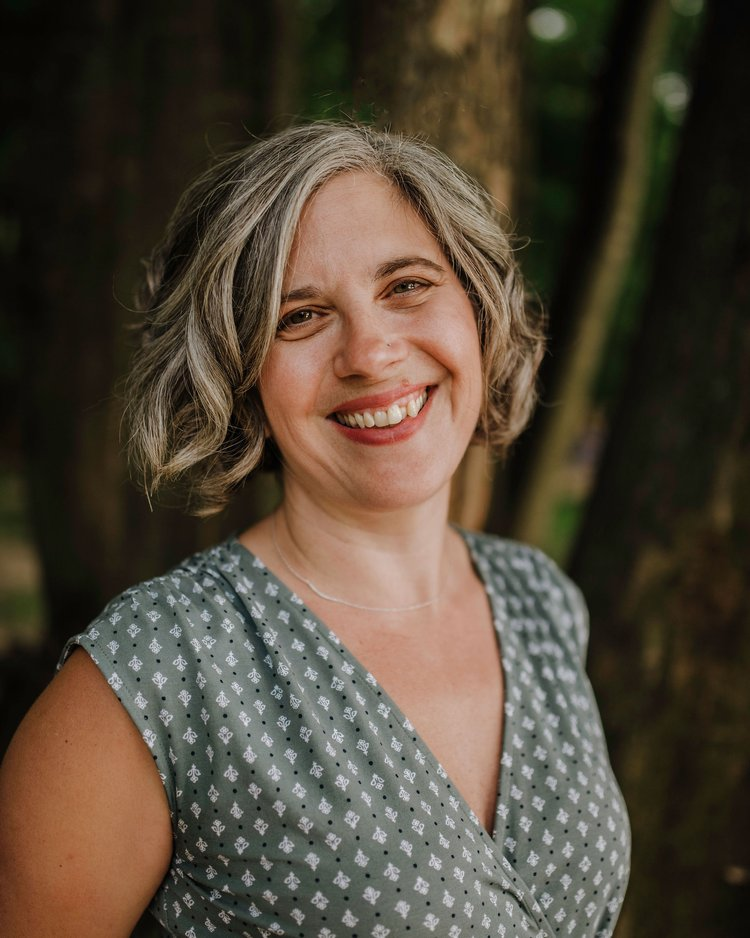
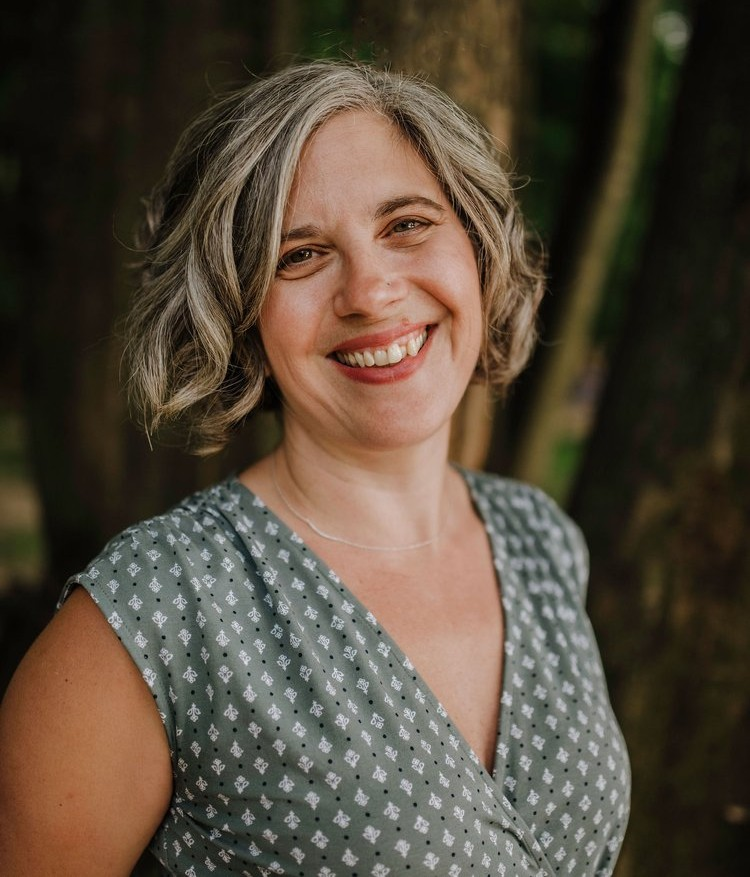
Making coach cards responsive

diff --git a/alchemycoaching.client/src/app/our-coaches/our-coaches.component.html b/alchemycoaching.client/src/app/our-coaches/our-coaches.component.html
@@ -2,12 +2,17 @@
 
   <div class="coaches-container">
     <div class="coach-container">
-      <div class="coach-title">Courtney Edwards</div>
+      <div class="coach-header">
+        <div class="coach-title">
+          Courtney Edwards
+          </div>
+          
+        </div>
       <div class="coach-content">
         <div class="coach-image-container">
           <div class="coach-image courtney"></div>
         </div>
-        <div class="left-content">
+        <div class="right-content">
           <div class="coach-description">
             Courtney Edwards (she/her) is a counselor turned life, relationship, and career coach. She founded Alchemy Coaching in 2018 to help individuals, couples, and groups build a stronger foundation of wellbeing through the lens of positive psychology and mindfulness.
             <br /> <br />
@@ -26,12 +31,17 @@
 
   <div class="coaches-container">
     <div class="coach-container">
-      <div class="coach-title">Tarni Kaur</div>
+      <div class="coach-header">
+        <div class="coach-title">
+          Tarni Kaur
+        </div>
+        
+      </div>
       <div class="coach-content">
         <div class="coach-image-container">
           <div class="coach-image tarni"></div>
         </div>
-        <div class="left-content">
+        <div class="right-content">
           <div class="coach-description">
             Merging a background in psychology with experience in life coaching, Tarni uses a solutions-focused framework alongside mindfulness practices to help individuals move forward with purpose.
             <br /><br />
@@ -50,12 +60,17 @@
 
   <div class="coaches-container">
     <div class="coach-container">
-      <div class="coach-title">Christina Donaldson</div>
+      <div class="coach-header">
+        <div class="coach-title">
+          Christina Donaldson
+        </div>
+        
+      </div>
       <div class="coach-content">
         <div class="coach-image-container">
           <div class="coach-image christina"></div>
         </div>
-        <div class="left-content">
+        <div class="right-content">
           <div class="coach-description">
             Christina blends intuitive and creative coaching techniques with motivational interviewing to meet clients where they are with curiosity, compassion, and a commitment to growth. She has a special interest in working with diverse neurotypes, including late-diagnosed/discovered autistic individuals.
             <br /><br />

diff --git a/alchemycoaching.client/src/app/our-coaches/our-coaches.component.scss b/alchemycoaching.client/src/app/our-coaches/our-coaches.component.scss
@@ -20,18 +20,27 @@ body {
   background: rgba($dark, .4);
   padding-bottom: 20px;
 }
+
 .coach-container {
   border: $medium 5px solid;
   border-radius: 15px;
   max-width: 900px;
   overflow: hidden;
+  margin: 10px;
+}
+
+.coach-header {
+  background-color: $medium;
+  display: flex;
+  justify-content: space-between;
+  flex-wrap: wrap;
 }
 
 .coach-title {
-  background-color: $medium;
   color: $light;
   font-size: 24px;
   padding: 4px;
+  flex: auto;
 }
 
 .coach-content {
@@ -39,19 +48,22 @@ body {
   justify-content: flex-start;
   color: $dark;
   background-color: $light;
+  flex-wrap: wrap;
 }
 
 .coach-image-container{
+    width: 300px;
     height: 400px;
-    width: 320px;
     background-color: transparent;
+    flex: auto;
+    display: flex;
+    justify-content: center;
     
 }
 .coach-image {
-
   background-size: cover;
   background-repeat: no-repeat;
-  background-position: center;
+  background-position: top;
   height: 100%;
   width: 100%;
 }
@@ -68,40 +80,56 @@ body {
   background-image: url('christina-headshot.jpg');
 }
 
-.left-content {
-  width: calc(min(600px, 75%));
+.right-content {
+  width: calc(100% - 300px);
   height: 100%;
+  min-width: 400px;
   max-height: 400px;
   overflow: auto;
-  padding: 10px;
   display: flex;
-  justify-content: center;
   align-self: center;
   flex-direction: column;
+  flex: auto;
 }
 
 .coach-description {
   color: $dark;
   vertical-align: middle;
+  padding: 10px;
+  overflow: auto;
+  flex: auto;
 }
 
 .buttons-container {
     display: flex;
     gap: 10px;
+    align-content: center;
     justify-content: center;
-    margin-top: 20px;
+    margin: 10px;
+    flex: auto;
+    margin-top: 15px;
 }
 
-button{
-    background-color: $medium;
-    color: $light;
-    border-radius: 50px;
-    padding: 10px;
-    padding-top: 5px;
-    padding-bottom: 5px;
+button {
+  background-color: $medium;
+  color: $light;
+  border-radius: 50px;
+  padding: 10px;
+  padding-top: 5px;
+  padding-bottom: 5px;
+}
+
+button:hover {
+  color: white;
 }
 
 a {
   text-decoration: none;
-  color: white;
+  color: $light;
 }
+
+button:hover a{
+    color: white;
+}
+
+

diff --git a/alchemycoaching.client/src/app/home-2/home-2.component.scss b/alchemycoaching.client/src/app/home-2/home-2.component.scss
@@ -58,9 +58,10 @@ body {
 
 .button:hover {
     background-color: white;
-    color: darkslategrey;
+    color: transparent;
     opacity: 80%;
 }
+
 
 a {
   text-decoration: none;
@@ -69,6 +70,10 @@ a {
 
 a:hover{
     color: $dark
+}
+
+.button:hover a{
+    color: $dark;
 }
 
 .description {

diff --git a/alchemycoaching.client/src/app/our-services/our-services.component.scss b/alchemycoaching.client/src/app/our-services/our-services.component.scss
@@ -7,11 +7,13 @@ body {
   background-position: top;
   background-repeat: no-repeat;
   overflow: auto;
+  min-height: calc(100vh - 50px);
 
 }
 
 .page-container {
   backdrop-filter: brightness(80%) contrast(60%);
+  min-height: calc(100vh - 50px);
 }
 
 .thumbnails-container{

diff --git a/alchemycoaching.client/src/app/home-2/home-2.component.html b/alchemycoaching.client/src/app/home-2/home-2.component.html
@@ -15,7 +15,7 @@
           
         </div>
         <div class="button">
-          SCHEDULE A CONSULTATION
+          <a href="#">SCHEDULE A CONSULTATION</a>
         </div>
       </div>
     </div>
